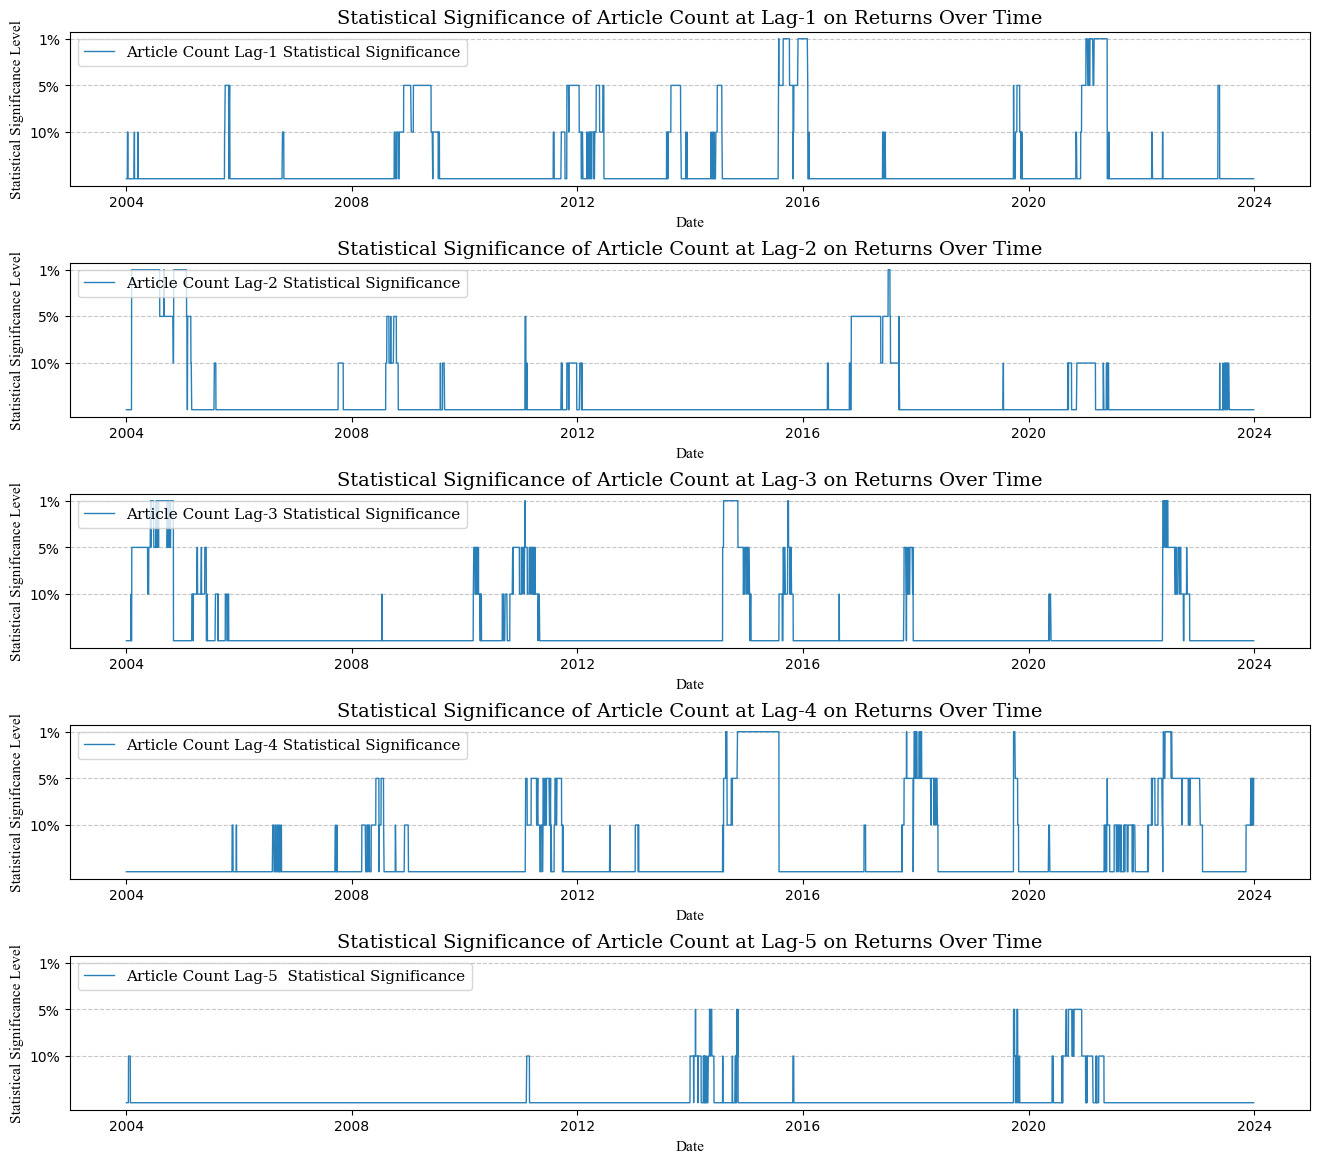
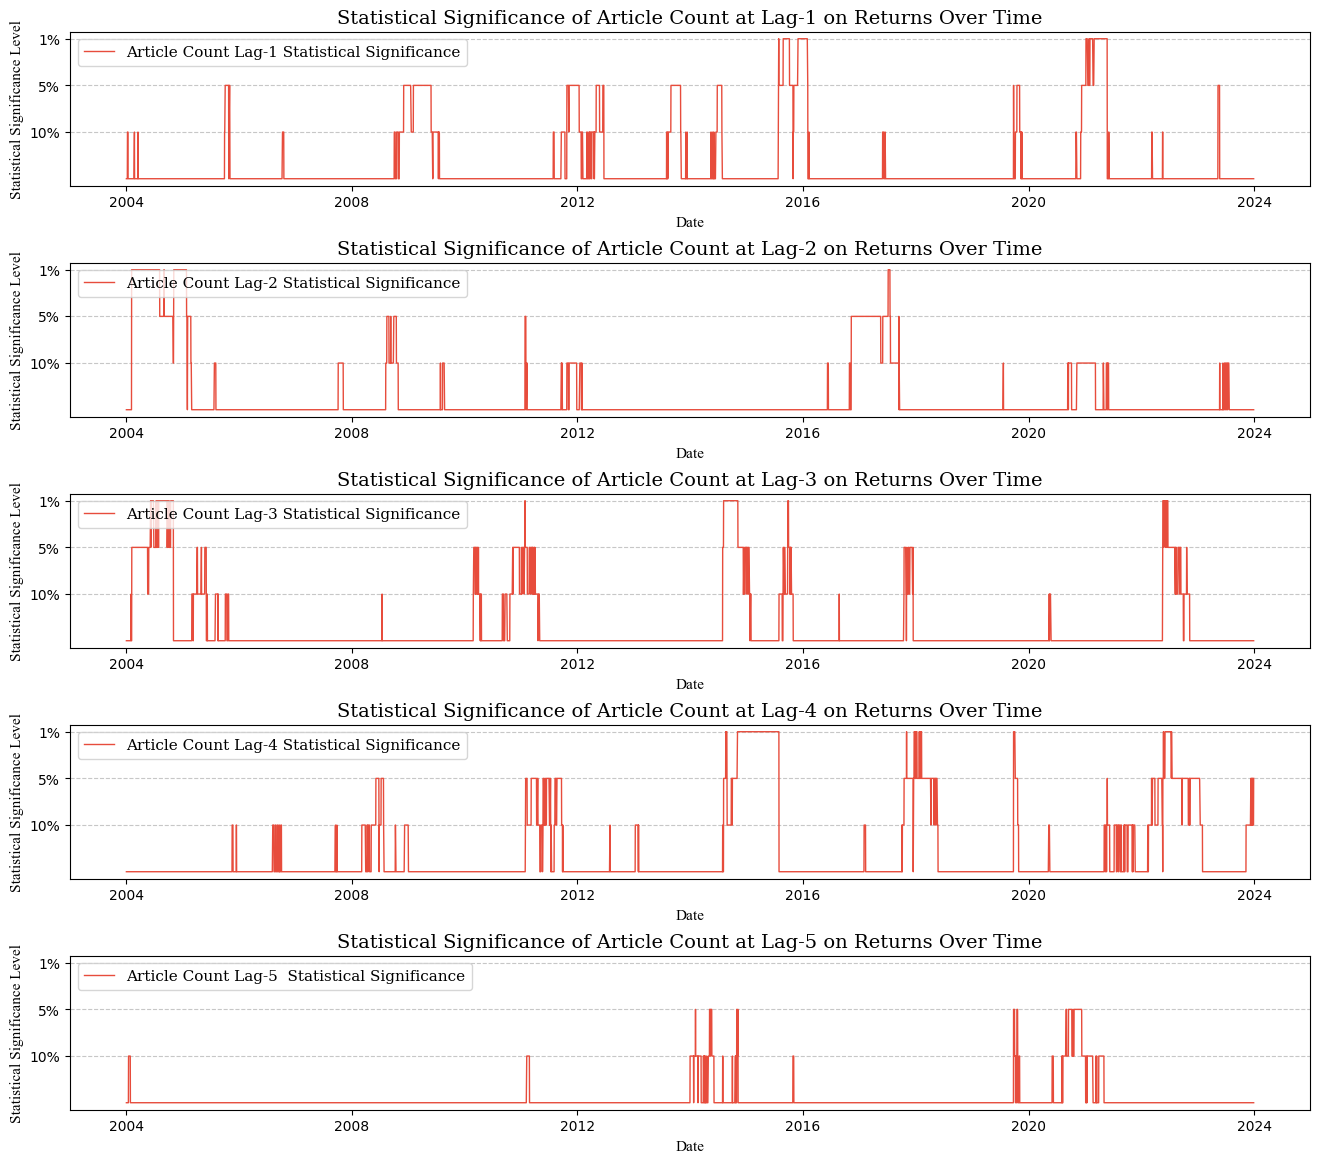
change plot colour

diff --git a/Plot_Rolling_VAR_Results.py b/Plot_Rolling_VAR_Results.py
@@ -69,11 +69,11 @@ for i, p_value_series in enumerate((df['count_p_values_lag_one'], df['count_p_va
 fig, (ax1, ax2, ax3, ax4, ax5) = plt.subplots(5, 1, figsize=(16, 14), sharex=False, sharey=True)
 
 # Plot each line plot on the same axis
-ax1.plot(datetime_objs, count_significance_levels[0], label='Article Count Lag-1 Statistical Significance', color='#2980b9', linewidth=1)
-ax2.plot(datetime_objs, count_significance_levels[1], label='Article Count Lag-2 Statistical Significance', color='#2980b9', linewidth=1)
-ax3.plot(datetime_objs, count_significance_levels[2], label='Article Count Lag-3 Statistical Significance', color='#2980b9', linewidth=1)
-ax4.plot(datetime_objs, count_significance_levels[3], label='Article Count Lag-4 Statistical Significance', color='#2980b9', linewidth=1)
-ax5.plot(datetime_objs, count_significance_levels[4], label='Article Count Lag-5  Statistical Significance', color='#2980b9', linewidth=1)
+ax1.plot(datetime_objs, count_significance_levels[0], label='Article Count Lag-1 Statistical Significance', color='#e74c3c', linewidth=1)
+ax2.plot(datetime_objs, count_significance_levels[1], label='Article Count Lag-2 Statistical Significance', color='#e74c3c', linewidth=1)
+ax3.plot(datetime_objs, count_significance_levels[2], label='Article Count Lag-3 Statistical Significance', color='#e74c3c', linewidth=1)
+ax4.plot(datetime_objs, count_significance_levels[3], label='Article Count Lag-4 Statistical Significance', color='#e74c3c', linewidth=1)
+ax5.plot(datetime_objs, count_significance_levels[4], label='Article Count Lag-5  Statistical Significance', color='#e74c3c', linewidth=1)
 
 # Plot settings
 for i, ax in enumerate([ax1, ax2, ax3, ax4, ax5]):
